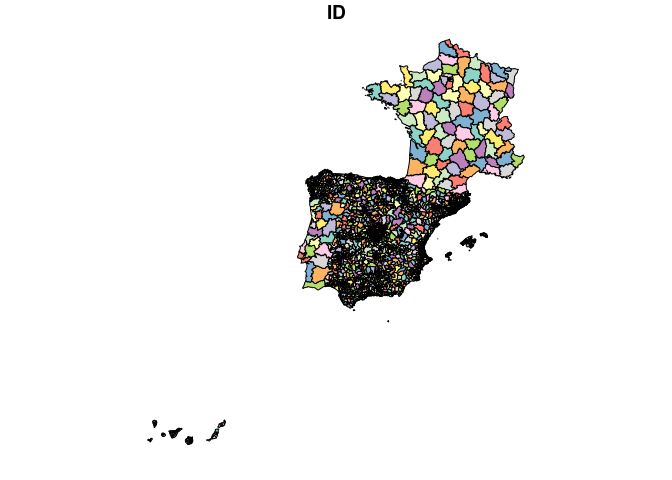
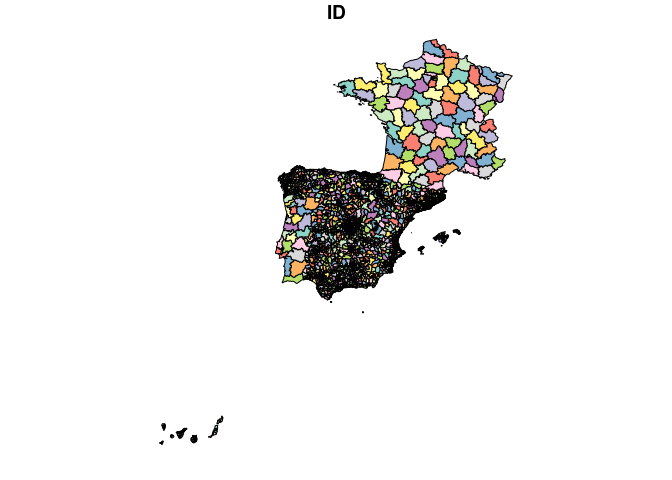
Update readme with jittering example

Changed region(s): [[0.4062, 0.0625, 0.7812, 0.6562], [0.2188, 0.875, 0.3438, 0.9375]]

diff --git a/README.md b/README.md
@@ -45,7 +45,9 @@ remotes::install_cran("duckdb")
 ``` r
 library(duckdb)
 library(tidyverse)
+theme_set(theme_minimal())
 devtools::load_all()
+sf::sf_use_s2(FALSE)
 ```
 
 Get metadata for the datasets as follows:
@@ -77,7 +79,8 @@ Zones can be downloaded as follows:
 
 ``` r
 distritos = get_zones(type = "distritos")
-plot(distritos)
+distritos_wgs84 = sf::st_transform(distritos, 4326)
+plot(distritos_wgs84)
 ```
 
 ![](man/figures/README-distritos-1.png)
@@ -126,3 +129,222 @@ od1_head |>
 ``` r
 DBI::dbDisconnect(con)
 ```
+
+You can get the same result, but for multiple files, as follows:
+
+``` r
+od_multi_list = get_od(
+  subdir = "estudios_basicos/por-distritos/viajes/ficheros-diarios",
+  date_regex = "2024-03-0[1-7]"
+)
+od_multi_list[[1]]
+```
+
+    # Source:   SQL [?? x 15]
+    # Database: DuckDB v0.10.2 [robin@Linux 6.5.0-35-generic:R 4.4.0/:memory:]
+          fecha periodo origen  destino distancia actividad_origen actividad_destino
+          <dbl> <chr>   <chr>   <chr>   <chr>     <chr>            <chr>            
+     1 20240307 00      01009_… 01001   0.5-2     frecuente        casa             
+     2 20240307 09      01009_… 01001   0.5-2     frecuente        casa             
+     3 20240307 18      01009_… 01001   0.5-2     frecuente        casa             
+     4 20240307 19      01009_… 01001   0.5-2     frecuente        casa             
+     5 20240307 20      01009_… 01001   0.5-2     frecuente        casa             
+     6 20240307 14      01002   01001   10-50     frecuente        casa             
+     7 20240307 22      01002   01001   10-50     frecuente        casa             
+     8 20240307 06      01009_… 01001   10-50     frecuente        casa             
+     9 20240307 09      01009_… 01001   10-50     frecuente        casa             
+    10 20240307 11      01009_… 01001   10-50     frecuente        casa             
+    # ℹ more rows
+    # ℹ 8 more variables: estudio_origen_posible <chr>,
+    #   estudio_destino_posible <chr>, residencia <chr>, renta <chr>, edad <chr>,
+    #   sexo <chr>, viajes <dbl>, viajes_km <dbl>
+
+``` r
+class(od_multi_list[[1]])
+```
+
+    [1] "tbl_duckdb_connection" "tbl_dbi"               "tbl_sql"              
+    [4] "tbl_lazy"              "tbl"                  
+
+The result is a list of duckdb tables which load almost instantly, and
+can be used with dplyr functions. Let’s do an aggregation to find the
+total number trips per hour over the 7 days:
+
+``` r
+n_per_hour = od_multi_list |>
+  map(~ .x |>
+        group_by(periodo, fecha) |>
+        summarise(n = n(), Trips = sum(viajes)) |>
+        collect()
+  ) |>
+  list_rbind() |>
+  mutate(Time = lubridate::ymd_h(paste0(fecha, periodo))) |>
+  mutate(Day = lubridate::wday(Time, label = TRUE)) 
+n_per_hour |>
+  ggplot(aes(x = Time, y = Trips)) +
+  geom_line(aes(colour = Day)) +
+  labs(title = "Number of trips per hour over 7 days")
+```
+
+![](man/figures/README-trips-per-hour-1.png)
+
+The figure above summarises 925,874,012 trips over the 7 days associated
+with 135,866,524 records.
+
+# Desire lines
+
+We’ll use the same input data to pick-out the most important flows in
+Spain, with a focus on longer trips for visualisation:
+
+``` r
+od_large = od_multi_list |>
+  map(~ .x |>
+        group_by(origen, destino) |>
+        summarise(Trips = sum(viajes), .groups = "drop") |>
+        filter(Trips > 500) |>
+        collect()
+  ) |>
+  list_rbind() |>
+  group_by(origen, destino) |>
+  summarise(Trips = sum(Trips)) |>
+  arrange(desc(Trips))
+od_large
+```
+
+    # A tibble: 37,023 × 3
+    # Groups:   origen [3,723]
+       origen  destino    Trips
+       <chr>   <chr>      <dbl>
+     1 2807908 2807908 2441404.
+     2 0801910 0801910 2112188.
+     3 0801902 0801902 2013618.
+     4 2807916 2807916 1821504.
+     5 2807911 2807911 1785981.
+     6 04902   04902   1690606.
+     7 2807913 2807913 1504484.
+     8 2807910 2807910 1299586.
+     9 0704004 0704004 1287122.
+    10 28106   28106   1286058.
+    # ℹ 37,013 more rows
+
+The results show that the largest flows are intra-zonal. Let’s keep only
+the inter-zonal flows:
+
+``` r
+od_large_interzonal = od_large |>
+  filter(origen != destino)
+```
+
+We can convert these to geographic data with the {od} package:
+
+``` r
+od_large_interzonal_sf = od::od_to_sf(
+  od_large_interzonal,
+  z = distritos_wgs84
+)
+od_large_interzonal_sf |>
+  ggplot() +
+  geom_sf(aes(size = Trips), colour = "red") +
+  theme_void()
+```
+
+![](man/figures/README-desire-lines-1.png)
+
+Let’s focus on trips in and around a particular area (Salamanca):
+
+``` r
+salamanca_zones = zonebuilder::zb_zone("Salamanca")
+distritos_salamanca = distritos_wgs84[salamanca_zones, ]
+plot(distritos_salamanca)
+```
+
+![](man/figures/README-salamanca-zones-1.png)
+
+We will use this information to subset the rows, to capture all movement
+within the study area:
+
+``` r
+ids_salamanca = distritos_salamanca$ID
+od_salamanca = od_multi_list |>
+  map(~ .x |>
+        filter(origen %in% ids_salamanca) |>
+        filter(destino %in% ids_salamanca) |>
+        collect()
+  ) |>
+  list_rbind() |>
+  group_by(origen, destino) |>
+  summarise(Trips = sum(viajes)) |>
+  arrange(Trips)
+```
+
+Let’s plot the results:
+
+``` r
+od_salamanca_sf = od::od_to_sf(
+  od_salamanca,
+  z = distritos_salamanca
+)
+od_salamanca_sf |>
+  filter(origen != destino) |>
+  ggplot() +
+  geom_sf(aes(colour = Trips), size = 1) +
+  scale_colour_viridis_c() +
+  theme_void()
+```
+
+![](man/figures/README-salamanca-plot-1.png)
+
+# Disaggregating desire lines
+
+For this you’ll need some additional dependencies:
+
+``` r
+library(sf)
+library(tmap)
+```
+
+We’ll get the road network from OSM:
+
+``` r
+salamanca_boundary = sf::st_union(distritos_salamanca)
+osm_full = osmactive::get_travel_network(salamanca_boundary)
+```
+
+``` r
+osm = osm_full[salamanca_boundary, ]
+drive_net = osmactive::get_driving_network(osm)
+drive_net_major = osmactive::get_driving_network_major(osm)
+cycle_net = osmactive::get_cycling_network(osm)
+cycle_net = osmactive::distance_to_road(cycle_net, drive_net_major)
+cycle_net = osmactive::classify_cycle_infrastructure(cycle_net)
+map_net = osmactive::plot_osm_tmap(cycle_net)
+map_net
+```
+
+![](man/figures/README-osm-1.png)
+
+We can use the road network to disaggregate the desire lines:
+
+``` r
+od_jittered = odjitter::jitter(
+  od_salamanca_sf,
+  zones = distritos_salamanca,
+  subpoints = drive_net,
+  disaggregation_threshold = 1000,
+  disaggregation_key = "Trips"
+)
+```
+
+Let’s plot the disaggregated desire lines:
+
+``` r
+od_jittered |>
+  arrange(Trips) |>
+  ggplot() +
+  geom_sf(aes(colour = Trips), size = 1) +
+  scale_colour_viridis_c() +
+  geom_sf(data = drive_net_major, colour = "black") +
+  theme_void()
+```
+
+![](man/figures/README-disaggregated-1.png)
